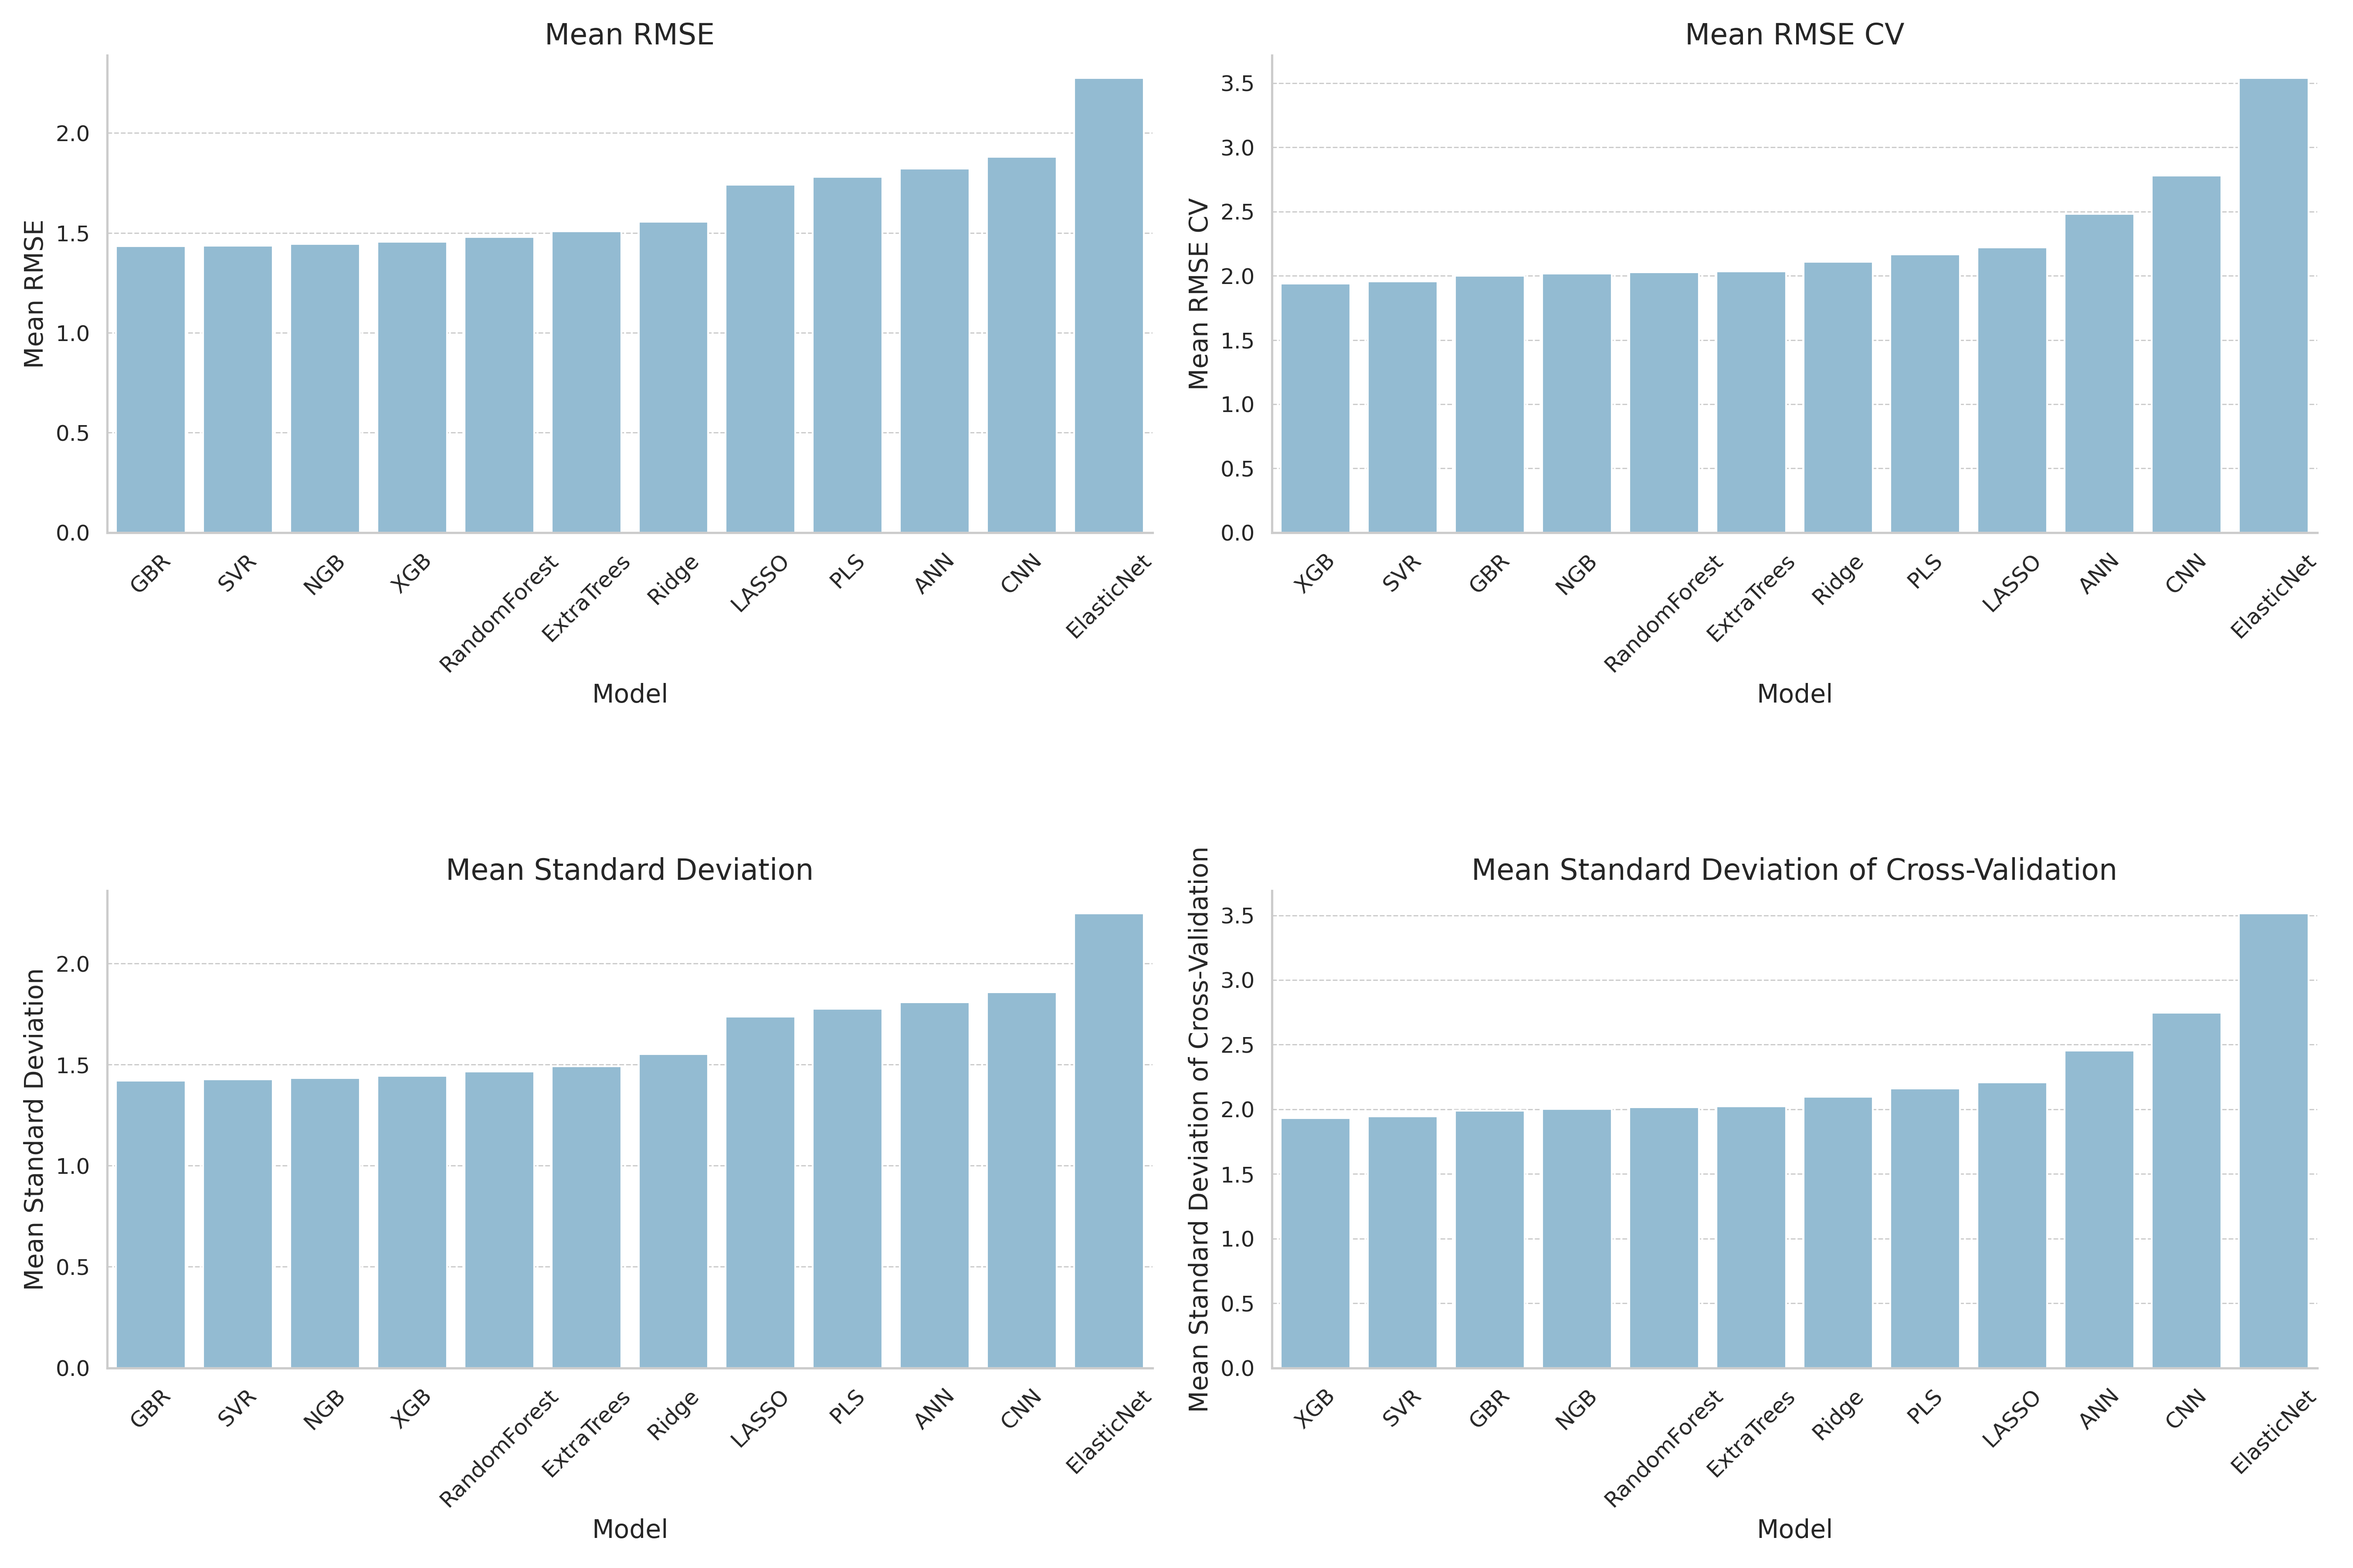
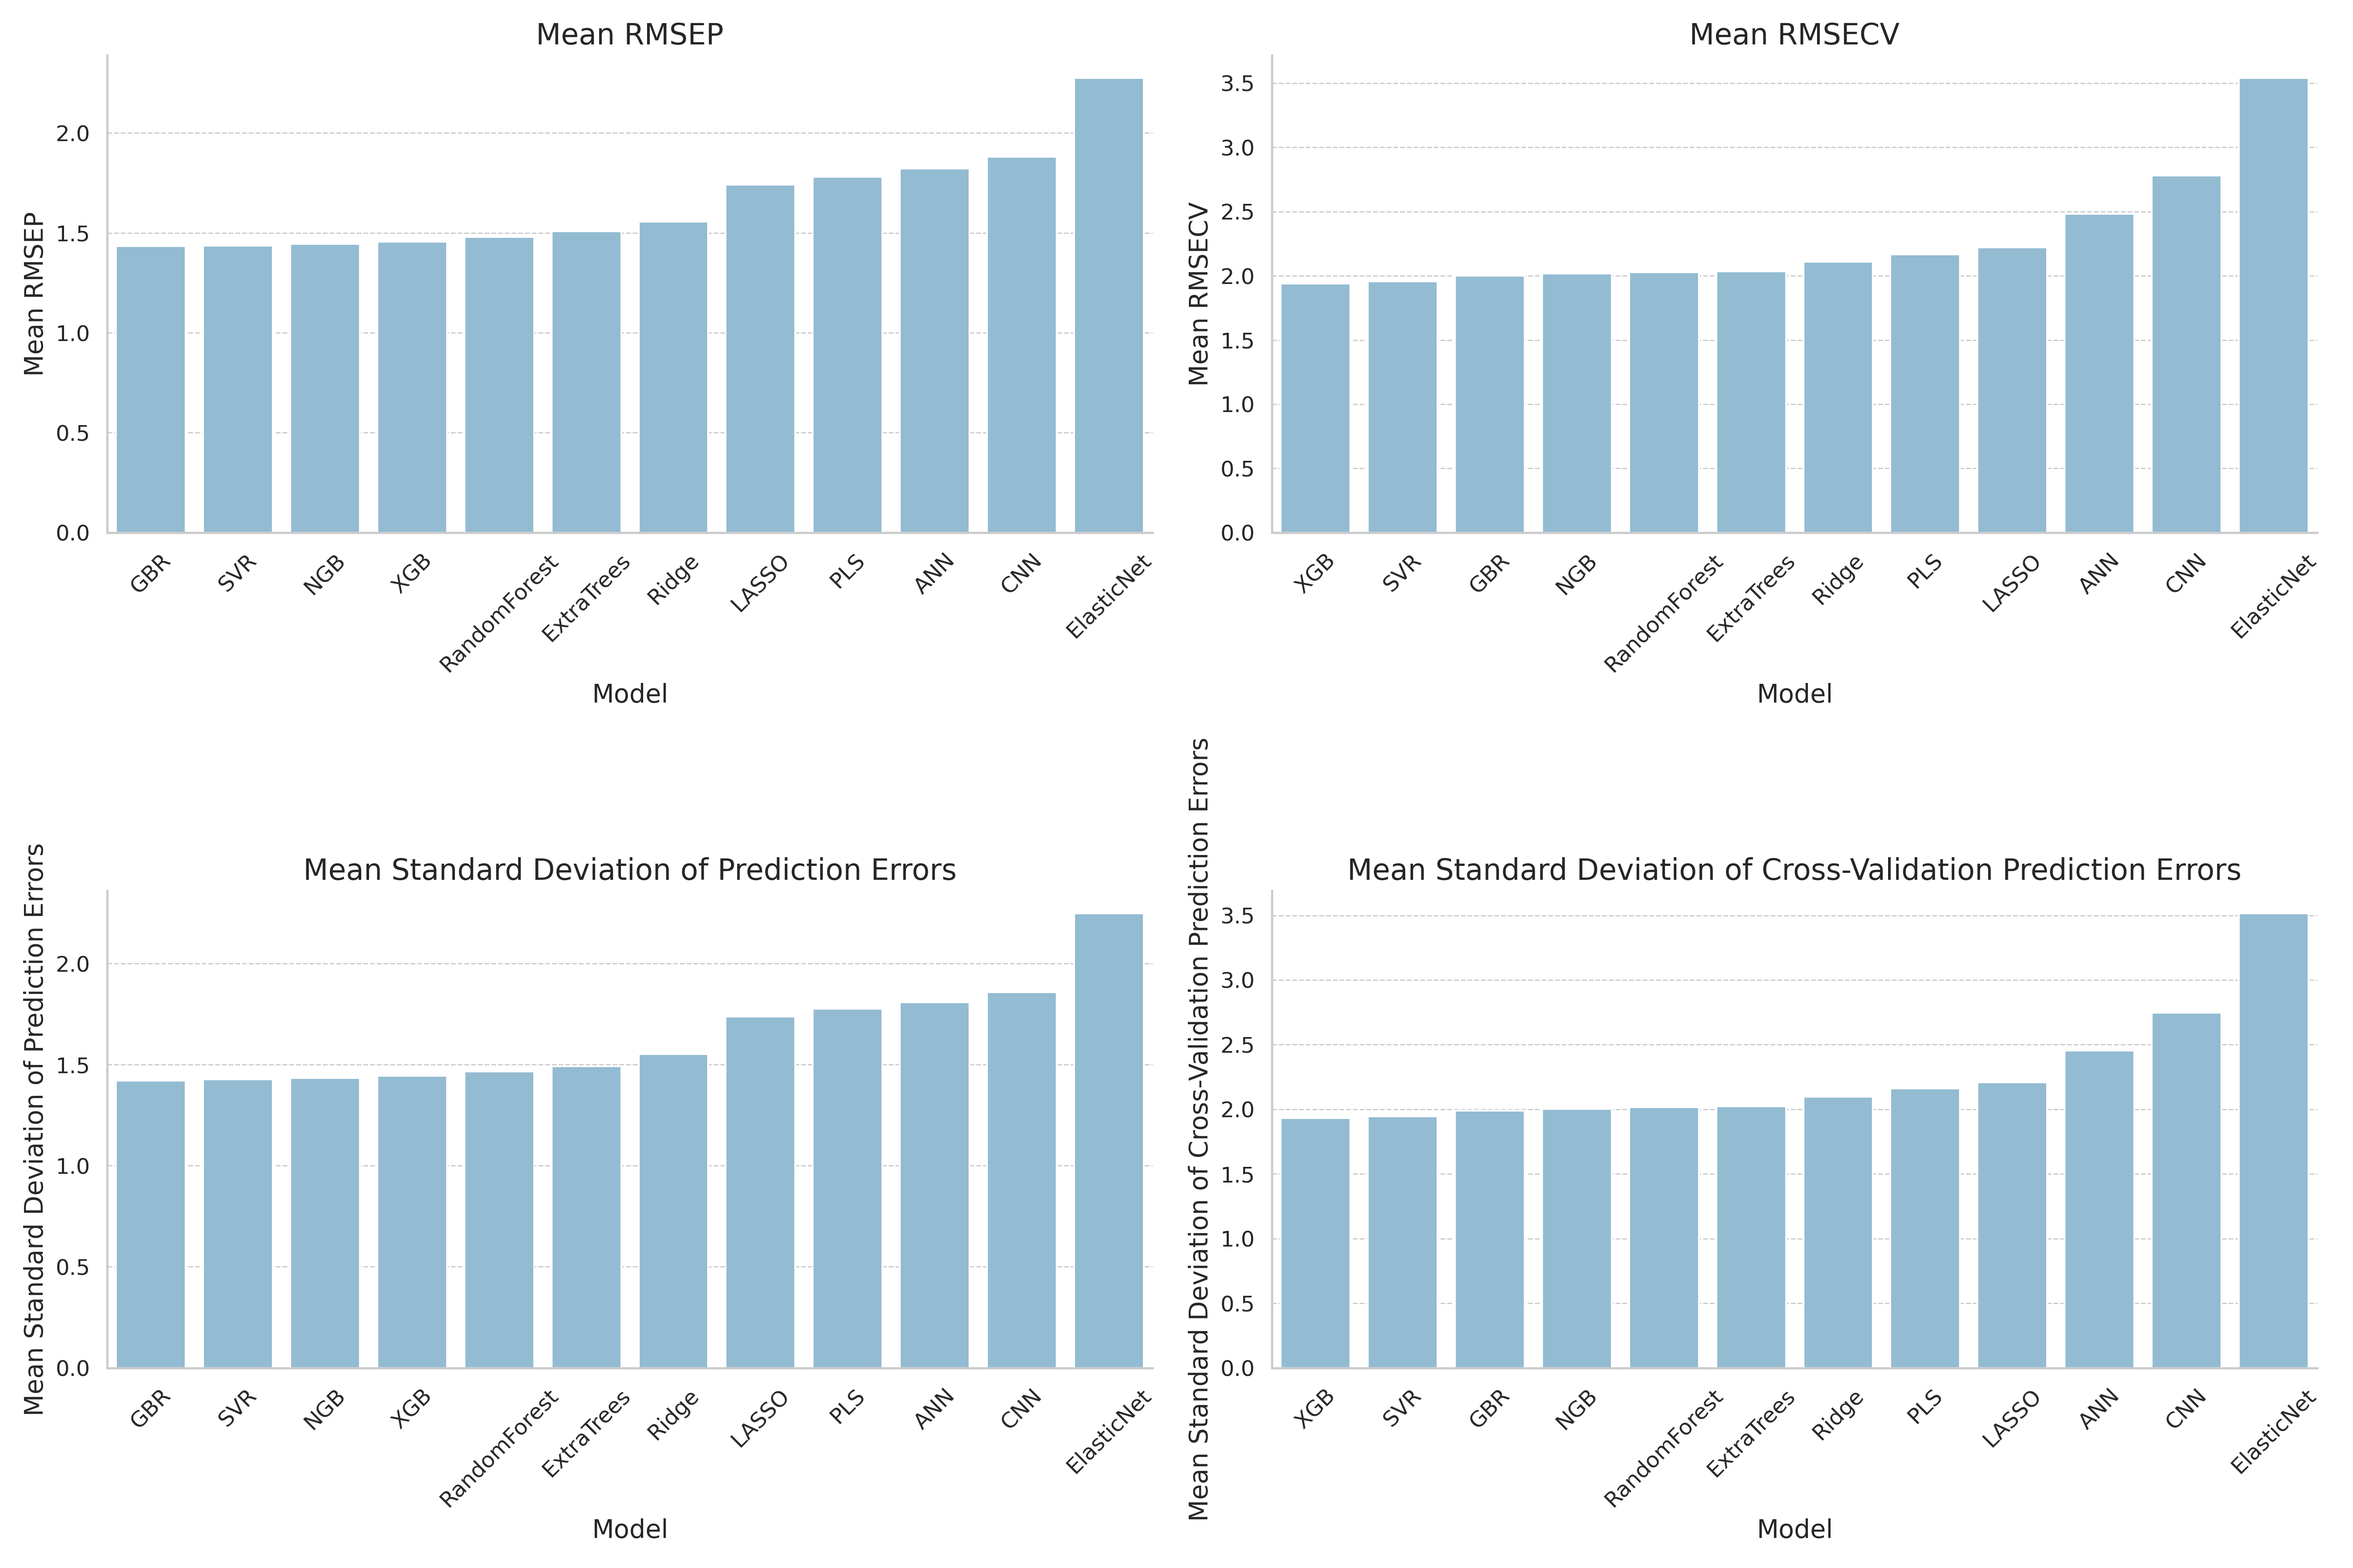
fixes

diff --git a/report_thesis/src/sections/results/initial_results.tex b/report_thesis/src/sections/results/initial_results.tex
@@ -19,7 +19,7 @@ Notes on the results:
 \begin{figure*}[h]
     \centering
     \includegraphics[width=\textwidth]{images/init_results_means.png}
-    \caption{Mean \gls{rmsep}, \gls{rmsecv}, standard deviation, and standard deviation of cross-validation for each model sorted in ascending order.}
+    \caption{Mean \gls{rmsep}, \gls{rmsecv}, standard deviation of prediction errors, and standard deviation of cross-validation prediction errors for each model across all oxides.}
     \label{fig:init_results_rmses}
 \end{figure*}
 

diff --git a/report_thesis/src/glossary.tex b/report_thesis/src/glossary.tex
@@ -25,7 +25,7 @@
 \newacronym{cnn}{CNN}{Convolutional Neural Network}
 \newacronym{rmse}{RMSE}{Root Mean Squared Error}
 \newacronym{rmsep}{RMSEP}{Root Mean Squared Error of Prediction}
-\newacronym{rmsecv}{RMSE-CV}{Root Mean Squared Error of Cross-Validation}
+\newacronym{rmsecv}{RMSECV}{Root Mean Squared Error of Cross-Validation}
 \newacronym{mse}{MSE}{Mean Squared Error}
 \newacronym{mae}{MAE}{Mean Absolute Error}
 \newacronym{mdsbpnn}{MDS-BPNN}{Multidimensional Scaling-back Propagation Neural Network}
